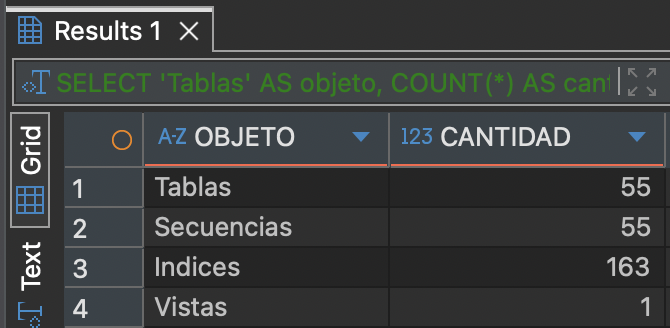
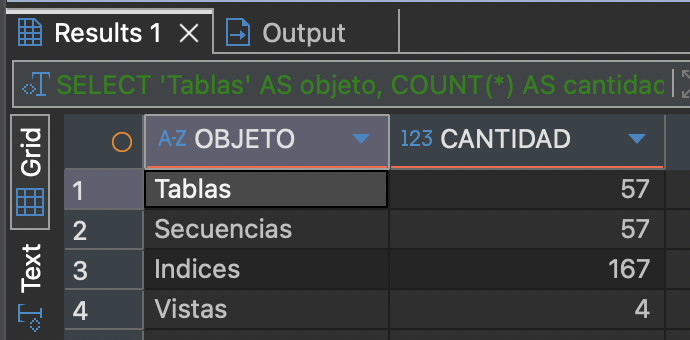
ADD instalacion desde cero verificada: rechazos esperados, vistas materializadas al dia y capturas de B1 retomadas

diff --git a/docs/evidencias/evidencias.md b/docs/evidencias/evidencias.md
@@ -66,9 +66,7 @@ La consulta no devuelve filas: `SGS_ADMIN` no tiene roles, en particular `CONNEC
 
 ## B1 — Modelo (`bd/02_modelo.sql`)
 
-Ambiente: Docker, PDB `FREEPDB1`, conectado como `SGS_ADMIN`. Ejecución completa desde cero (`00` → `01` → `02`) el 2026-10-26.
-
-> **Pendiente:** las capturas 1 a 4 se retoman al cerrar el modelo. Después de tomarlas se agregaron `SGS_MONITOREO` y `SGS_MONITOREO_TABLESPACE` (57 tablas). Las capturas 5 y 6 siguen vigentes.
+Ambiente: Docker, PDB `FREEPDB1`, conectado como `SGS_ADMIN`. Las capturas 1 a 4 son de la instalación desde cero del 2026-10-28 (`00` → `10`), con el modelo definitivo; no cuentan las tablas externas del padrón ni las de las vistas materializadas, que no son tablas del modelo.
 
 ### 1. Resumen de objetos del esquema
 
@@ -81,7 +79,7 @@ UNION ALL SELECT 'Vistas', COUNT(*) FROM user_views;
 
 ![Resumen de objetos](capturas/B1_02_01_resumen_objetos.png)
 
-El esquema tiene 55 tablas, cada una con su secuencia (55), 163 índices y la vista del precio de venta.
+El esquema tiene 57 tablas, cada una con su secuencia (57), 167 índices y 4 vistas (precio de venta, bitácora, bitácora crítica y crecimiento de la base).
 
 ### 2. Tablas por tablespace
 
@@ -94,7 +92,7 @@ SELECT tablespace_name, COUNT(*) AS tablas
 
 ![Tablas por tablespace](capturas/B1_02_02_tablas_tablespace.png)
 
-Las tablas de auditoría (histórico de precios, bitácora, detalle de bitácora y bitácora de errores) están en `SGS_AUD`; las 51 restantes en `SGS_DATA`.
+Las 6 tablas de auditoría (histórico de precios, bitácora, detalle de bitácora, bitácora de errores, monitoreo y su detalle por tablespace) están en `SGS_AUD`; las 51 restantes en `SGS_DATA`.
 
 ### 3. Índices por tablespace
 
@@ -106,7 +104,7 @@ SELECT tablespace_name, COUNT(*) AS indices
 
 ![Índices por tablespace](capturas/B1_02_03_indices_tablespace.png)
 
-Los 163 índices (llaves primarias, únicas, índices únicos funcionales e índices secundarios) están en `SGS_IDX`, separados de los datos.
+Los 167 índices (llaves primarias, únicas, índices únicos funcionales e índices secundarios) están en `SGS_IDX`, separados de los datos.
 
 ### 4. Restricciones de integridad por tipo
 
@@ -123,7 +121,7 @@ SELECT DECODE(constraint_type, 'P', 'Llave primaria', 'R', 'Llave foranea',
 
 ![Restricciones](capturas/B1_02_04_restricciones.png)
 
-55 llaves primarias, 74 llaves foráneas, 43 restricciones únicas y 86 restricciones CHECK (sin contar los `NOT NULL`).
+57 llaves primarias, 75 llaves foráneas, 44 restricciones únicas y 90 restricciones CHECK (sin contar los `NOT NULL`).
 
 ### 5. Objetos inválidos
 
@@ -861,3 +859,19 @@ Cinco premiaciones semestrales, cada una con los clientes que más compraron en 
 ![Cierres](capturas/B6_10_02_cierres.png)
 
 Cinco cierres diarios: el de la venta a crédito de José, tres días sin ventas (el cierre se hace igual) y el día de las ventas de prueba con sus cuatro cajeros.
+
+# Instalación desde cero
+
+El sistema completo se reinstaló en el Docker con los scripts oficiales, en orden (`00` a `10`), con un script de terminal que pone las claves del ambiente, ejecuta cada parte con SQL*Plus y el usuario que corresponde (SYS o SGS_ADMIN) y se detiene ante cualquier error o problema de compilación.
+
+![Instalación desde cero](capturas/I0_instalacion_desde_cero.png)
+
+Las 16 partes de la instalación terminaron sin errores en 1 minuto 27 segundos, incluida la carga de los 3,7 millones de personas del padrón.
+
+![Verificación general](capturas/I0_verificacion_general.png)
+
+Después de instalar: 57 tablas, todas con 5 registros o más; 16 packages válidos; 50 triggers; 4 vistas y 2 vistas materializadas; ningún objeto inválido; 15 jobs programados; el padrón completo; la clave del correo y las de los 4 roles cifradas; 5 premiaciones y 5 cierres; y la bitácora con las operaciones auditadas.
+
+![Bitácora de errores](capturas/I0_bitacora_errores.png)
+
+Los datos de prueba incluyen seis operaciones que el sistema debe rechazar; cada rechazo queda en la bitácora de errores con el programa que lo detectó y su mensaje: venta a crédito sobre el límite, traslado sin existencia suficiente, cédula fuera del padrón, proveedor inexistente, límite de crédito menor a la deuda y venta en la bodega central.

diff --git a/CLAUDE.md b/CLAUDE.md
@@ -198,10 +198,11 @@ Prohibido: `IF NOT EXISTS` en DDL, `BOOLEAN` en columnas, `SELECT` sin `FROM DUA
 - Instalación en SGSPRI (valores por servidor, orden, verificaciones): `servidores/configuracion/instalacion_bd_sgspri.md`.
 - **B6 (procesos y notificaciones) completa:** `bd/07_procesos.sql` con `SGS_PKG_PROCESOS` (N1 a N5 diarios a las 07:00; P1 inventario y P2 descuentos semanales; P3 premiación cada `PREMIO_FRECUENCIA_MESES` meses; P4 cierre diario a las 00:05 del día anterior) y 9 jobs de `DBMS_SCHEDULER` en hora de Costa Rica. Todos probados a demanda con su correo. Decisiones en `docs/decisiones.md`; N2 en espera de la respuesta del profesor.
 - **B7 (seguridad) completa:** `bd/08_seguridad.sql`: perfil `SGS_PERFIL_USUARIO`, usuarios por rol (confirmado por el profesor) con `DEFAULT ROLE NONE`, roles `SGS_ROL_*` con clave cifrada en `CLAVE_ROL_*`, `SGS_PKG_SEGURIDAD.asignar_clave_rol`, `SGS_PKG_ROLES.clave_rol` y `SGS_PKG_ACCESO.activar_rol` (derechos del invocador). `asignar_credito` pasó a `SGS_PKG_CREDITO` (en el 04). Probado con los 4 usuarios, bloqueo y reutilización.
+- **Instalación completa en Docker:** `bash bd/local/instalar_docker.sh` (en `.gitignore`: pone las claves de desarrollo, corre 00 a 10 con SQL*Plus y el usuario de cada sección, se detiene en el primer error; logs en `bd/local/instalacion/logs/`). Para SGSPRI se arma uno igual con las claves de producción.
 - **Scripts con muchos bloques PL/SQL se corren con SQL*Plus dentro del contenedor** (`docker exec -i oracle_una sqlplus -s -L "<usuario>/<clave>@//localhost:1521/FREEPDB1" < archivo`); las copias con claves de desarrollo van en `bd/local/` (en `.gitignore`). En 26ai la falta de privilegio sale como `ORA-41900`; en 21c es `ORA-01031`.
 - **SQL*Plus siempre con `NLS_LANG=AMERICAN_AMERICA.AL32UTF8`** (`docker exec -i -e NLS_LANG=AMERICAN_AMERICA.AL32UTF8 oracle_una sqlplus ...`): sin eso SQL*Plus lee el archivo UTF-8 como un juego de caracteres de un byte y las tildes y la Ñ de los textos quedan dañadas dentro del package (pasó en B8; DBeaver no tiene el problema). En SGSPRI, `export NLS_LANG=AMERICAN_AMERICA.AL32UTF8` antes de usar SQL*Plus.
 - **B8 (monitoreo) completa:** `bd/09_monitoreo.sql`: `SGS_PKG_MONITOREO` (tablespaces, objetos inválidos e índices diarios; bloqueos cada 15 min con `MINUTOS_SESION_BLOQUEADA`; registro diario con reporte y crecimiento), columna nueva `MON_ERRORES` (también en `02_modelo.sql`), vista `SGS_VW_CRECIMIENTO`, vistas materializadas `SGS_MV_VENTAS_MENSUALES` y `SGS_MV_INVENTARIO_CONSOLIDADO` (refresco diario 00:30), análisis de planes en `docs/optimizacion.md`. 15 jobs en total.
-- **Carril B completo (B1 a B8).** 5 filas o más en las 57 tablas (sección D de `10_datos_operaciones.sql`: premiaciones con fecha de corte, cierres, descuentos, monitoreo). Siguiente: prueba desde cero (00 → 10), retomar las capturas 1 a 4 de B1, diagrama y diccionario de datos, y paso a SGSPRI cuando Andrés tenga Tailscale listo.
+- **Carril B completo (B1 a B8).** 5 filas o más en las 57 tablas (sección D de `10_datos_operaciones.sql`: premiaciones con fecha de corte, cierres, descuentos, monitoreo). Instalación desde cero probada el 2026-10-28 con `bd/local/instalar_docker.sh` (00 → 10 en 1 min 27 s, todo OK) y capturas 1 a 4 de B1 retomadas. Siguiente: diagrama y diccionario de datos, y paso a SGSPRI cuando Andrés tenga Tailscale listo.
 - Conexiones DBeaver: `Docker - SGS_ADMIN (FREEPDB1)`, SYSTEM y `free (SYSDBA)` (entra como SYS a `FREEPDB1`). Bloques PL/SQL con `Cmd + Enter`; varias sentencias con `Option + X`.
 - El Docker está en hora UTC (6 h adelante); en los servidores se configura `America/Costa_Rica` (pendiente de Andrés).
 
